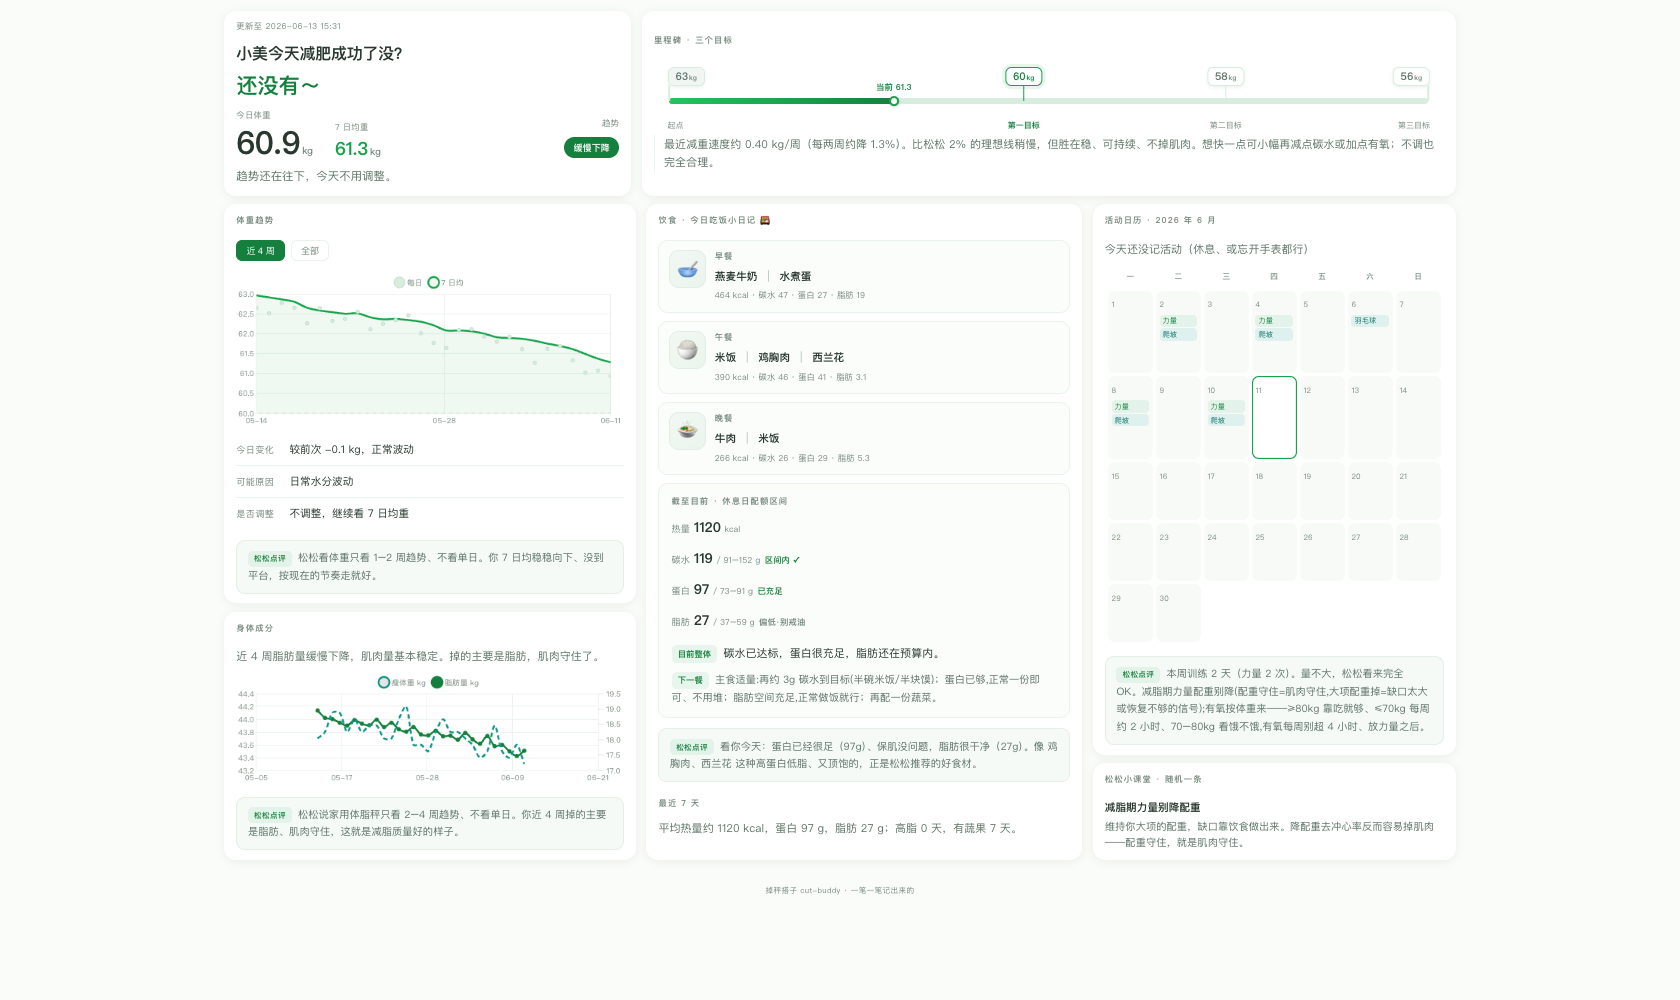
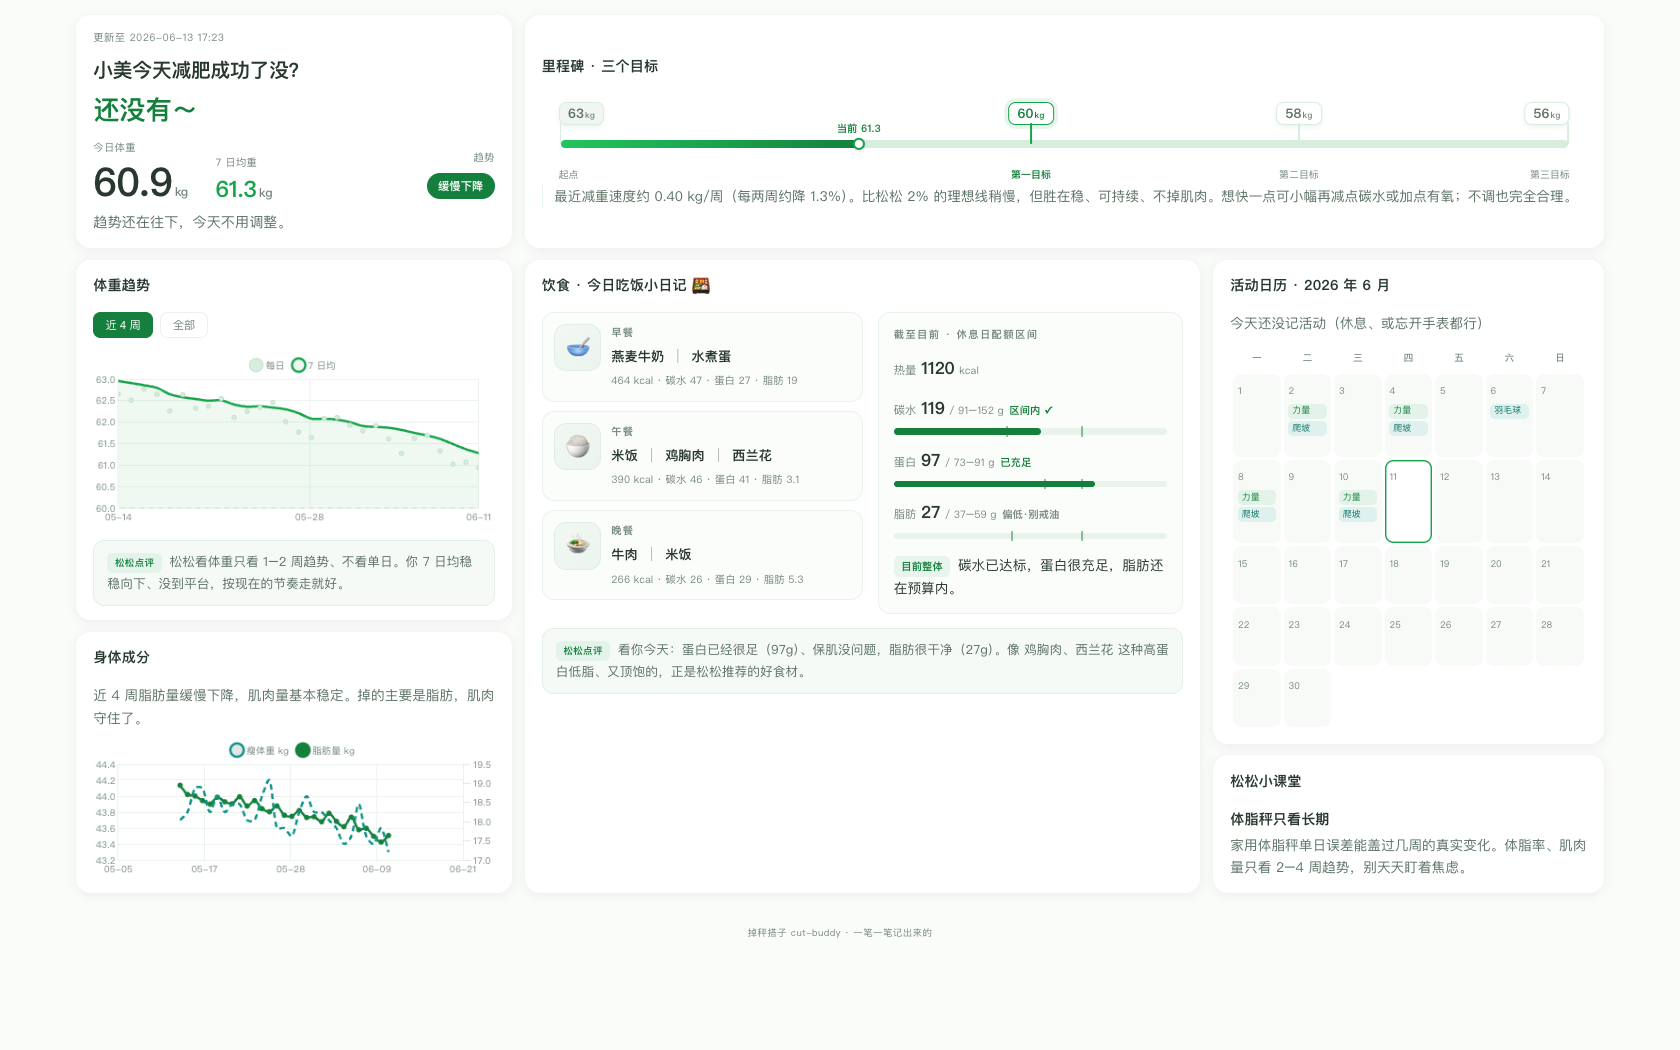
v2.3: 一页看板再打磨(字号放大/碳蛋脂进度条/英雄卡对齐/按菜显示dish/今天锚定改进/调料隐藏修复)

diff --git a/scripts/build_dashboard.py b/scripts/build_dashboard.py
@@ -154,8 +154,14 @@ def build_all():
     series = weight_series()
     mbd = meals_by_date(); wbd = workouts_by_date(); dbd = days_by_date()
     if not series: return {"empty": True}
-    L = series[-1][0]; latest_w = series[-1][1]
+    # "今天"取最近有任何记录(称重/饮食/运动)的那天,不只看称重——否则当天只记了吃/练、没称重,看板会卡在昨天
     daily = {d: w for (d, w, _, _) in series}
+    cand = [series[-1][0]]
+    if mbd: cand.append(max(pdate(d) for d in mbd))
+    if wbd: cand.append(max(pdate(d) for d in wbd))
+    L = max(cand)
+    weighed_today = L in daily
+    latest_w = daily.get(L, series[-1][1])   # 当天没称重就沿用最近一次体重(数字不空,但下方会标注)
     ma_now = ma7_at(series, L)
     ma_prev = ma7_at(series, L - datetime.timedelta(days=7))
     delta7 = round(ma_now - ma_prev, 2) if (ma_now and ma_prev) else None
@@ -297,8 +303,9 @@ def build_diet(profile, mbd, wbd, L, latest_w):
     bymeal = collections.OrderedDict()
     for m in todays: bymeal.setdefault(m["meal"], []).append(m)
     def is_condiment(nm):
-        if nm in ("食用油", "蚝油", "酱油", "生抽", "老抽", "盐", "糖", "沙拉酱", "蛋黄酱", "番茄酱"): return True
-        return len(nm) <= 3 and (nm.endswith("油") or nm.endswith("酱") or nm.endswith("盐"))
+        base = re.split(r'[（(]', nm)[0].strip()   # 去掉"(喷6下)""(各一勺)"这类备注再判断
+        if any(k in base for k in ("食用油", "调和油", "蚝油", "酱油", "生抽", "老抽", "沙拉酱", "蛋黄酱", "番茄酱")): return True
+        return len(base) <= 3 and (base.endswith("油") or base.endswith("酱") or base.endswith("盐"))
     photos_dir = os.path.join(DATA_DIR, "photos")
     def find_photo(mn):
         for ext in ("jpg", "jpeg", "png", "webp", "heic"):
@@ -307,7 +314,13 @@ def build_diet(profile, mbd, wbd, L, latest_w):
         return ""
     def mealcard(mn, items):
         sub = day_nutrition(items)
-        shown = [i["food"] for i in items if not is_condiment(i["food"])] or [i["food"] for i in items]
+        # 显示折叠:混合菜原料共用 dish 名→只显示一次菜名;无 dish 的单品显示本名;独立调料不单列
+        shown, seen = [], set()
+        for i in items:
+            label = i.get("dish") or i["food"]
+            if not i.get("dish") and is_condiment(i["food"]): continue
+            if label not in seen: seen.add(label); shown.append(label)
+        if not shown: shown = [i["food"] for i in items]
         return {"emoji": meal_emoji(mn), "meal": mn, "foods_list": shown, "empty": False,
                 "kcal": round(sub["kcal"]), "protein": f1(sub["protein"]), "fat": f1(sub["fat"]), "carb": f1(sub["carb"]),
                 "pre": ("练前" in mn or "练后" in mn), "photo": find_photo(mn)}
@@ -338,9 +351,9 @@ def build_diet(profile, mbd, wbd, L, latest_w):
         pt = tag_macro(tot["protein"], q["protein_low"], q["protein_high"], soft_high=True)
         ftg = tag_fat(tot["fat"])
         so_far = [
-            {"name": "碳水", "act": round(tot["carb"]), "rng": "%d–%d" % (q["carb_low"], q["carb_high"]), "tag": ct[0], "cls": ct[1]},
-            {"name": "蛋白", "act": round(tot["protein"]), "rng": "%d–%d" % (q["protein_low"], q["protein_high"]), "tag": pt[0], "cls": pt[1]},
-            {"name": "脂肪", "act": round(tot["fat"]), "rng": "%d–%d" % (fat_lo, fat_hi), "tag": ftg[0], "cls": ftg[1]},
+            {"name": "碳水", "act": round(tot["carb"]), "lo": q["carb_low"], "hi": q["carb_high"], "rng": "%d–%d" % (q["carb_low"], q["carb_high"]), "tag": ct[0], "cls": ct[1]},
+            {"name": "蛋白", "act": round(tot["protein"]), "lo": q["protein_low"], "hi": q["protein_high"], "rng": "%d–%d" % (q["protein_low"], q["protein_high"]), "tag": pt[0], "cls": pt[1]},
+            {"name": "脂肪", "act": round(tot["fat"]), "lo": fat_lo, "hi": fat_hi, "rng": "%d–%d" % (fat_lo, fat_hi), "tag": ftg[0], "cls": ftg[1]},
         ]
         if len(bymeal) <= 1:
             mn = list(bymeal.keys())[0] if bymeal else "这餐"
@@ -716,7 +729,7 @@ def build_supp(profile, series, mbd, wbd, L, rate, diet):
         p = build_praise(profile, series, mbd, wbd, L, rate, diet)
         return {"kind": "praise", "line": p["line"]}
     t = build_tip()
-    return {"kind": "tip", "title": "松松小课堂 · 随机一条", "tip_t": t["title"], "tip_b": t["body"]}
+    return {"kind": "tip", "title": "松松小课堂", "tip_t": t["title"], "tip_b": t["body"]}
 
 # ---------- 渲染 ----------
 def cal_html(cal):
@@ -755,7 +768,8 @@ def diet_html(di):  # 左侧:今日吃饭小日记(左图标 · 右食物列表)
     out = "<div class='diary'>"
     for c in di["cards"]:
         if c.get("empty"):
-            out += ("<div class='meal empty'><div class='mvis'><div class='mtile'>%s</div></div>"
+            # 空餐位:手机视图保留(提醒补记),一页分享视图收起(别让"暂未记录"占高度+显得没记全)
+            out += ("<div class='meal empty trim-wide'><div class='mvis'><div class='mtile'>%s</div></div>"
                     "<div class='mbody'><div class='mn'>%s</div><div class='mf-empty'>暂未记录</div></div></div>") % (
                     c["emoji"], esc(c["meal"]))
             continue
@@ -773,11 +787,19 @@ def diet_right_html(di):  # 截至目前(横向条) + 这一餐 + 下一餐
         return "<div class='note'>记一餐后，这里会显示截至目前的营养进度、这一餐判断和下一餐建议。</div>"
     items = "<div class='sf-item'><span class='sk'>热量</span><b>%d</b><i>kcal</i></div>" % di["kcal"]
     for m in di["so_far"]:
-        items += ("<div class='sf-item'><span class='sk'>%s</span><b>%d</b><i>/ %s g</i>"
-                  "<em class='%s'>%s</em></div>") % (m["name"], m["act"], esc(m["rng"]), m["cls"], esc(m["tag"]))
+        # 进度条:浅轨 + 目标区间[下限,上限]两根刻度 + 实际填充(按达标状态着色),一眼看出"到没到/超没超"
+        mx = max(m["hi"] * 1.45, m["act"] * 1.08, 1)
+        fill = min(100, m["act"] / mx * 100)
+        lop, hip = m["lo"] / mx * 100, m["hi"] / mx * 100
+        bar = ("<div class='sf-bar'><i class='sf-fill %s' style='width:%.1f%%'></i>"
+               "<i class='sf-tick' style='left:%.1f%%'></i><i class='sf-tick' style='left:%.1f%%'></i></div>") % (
+               m["cls"], fill, lop, hip)
+        items += ("<div class='sf-row'><div class='sf-item'><span class='sk'>%s</span><b>%d</b><i>/ %s g</i>"
+                  "<em class='%s'>%s</em></div>%s</div>") % (m["name"], m["act"], esc(m["rng"]), m["cls"], esc(m["tag"]), bar)
+    # "下一餐"建议是前瞻动作,一页分享视图收起(手机仍显示);"目前整体"判定保留
     return ("<div class='sf-h'>截至目前 · %s配额区间</div><div class='sf-strip'>%s</div>"
             "<div class='judge2'><span class='jt'>%s</span>%s</div>"
-            "<div class='advice2'><span class='jt'>下一餐</span>%s</div>") % (
+            "<div class='advice2 trim-wide'><span class='jt'>下一餐</span>%s</div>") % (
             di["day_kind"], items, esc(di["judge_label"]), esc(di["meal_judge"]), esc(di["next_meal"]))
 
 def supp_html(s):
@@ -791,8 +813,8 @@ def supp_html(s):
 def c_card(inner, title=None, cls="span2"):   # 统一卡片:可带标题
     h = ("<div class='mt'>%s</div>" % esc(title)) if title else ""
     return "<div class='card %s'>%s%s</div>" % (cls.strip(), h, inner)
-def c_coach(text):                            # 松松点评盒
-    return "<div class='coach'><span class='coach-tag'>松松点评</span>%s</div>" % esc(text)
+def c_coach(text, cls=""):                     # 松松点评盒(cls='trim-wide' → 一页视图收起、手机仍显示)
+    return "<div class='coach %s'><span class='coach-tag'>松松点评</span>%s</div>" % (cls, esc(text))
 def c_sub(title):                             # 小节小标题
     return "<div class='sub'>%s</div>" % esc(title)
 def c_stat(label, value, unit="", cls=""):    # 大数字块
@@ -813,16 +835,15 @@ def render(D):
     foot = "掉秤搭子 cut-buddy · 一笔一笔记出来的"   # 落款不带本地路径,截图分享出去也干净
     show_trend, show_pattern = di["show_trend"], di["show_pattern"]
 
-    # 饮食卡弹性内容预算:加餐多时,宽屏"一页"视图按优先级让位(只 CSS 隐藏,手机滚动视图仍保留全部)
-    # ≥4 张餐卡 → 撤"最近7天/30天"点评;≥5 张 → 连松松点评也撤
+    # 饮食卡弹性内容预算:精炼一页视图(只 CSS 隐藏,手机滚动视图仍保留全部)
+    # "最近7天/30天"长期趋势在宽屏一页里始终精炼掉(速度点评已覆盖趋势);≥5 张餐卡再撤松松点评
     extra_meals = max(0, (len(di["cards"]) if di.get("has_today") else 0) - 3)
-    trim1 = " trim-wide" if extra_meals >= 1 else ""
     trim2 = " trim-wide" if extra_meals >= 2 else ""
     # 饮食长期趋势:只留文字点评不画图(7天均值+30天模式,数据不足自动隐藏)
-    trend_block = ("<div class='dyn%s'>%s<div class='body-t'>%s</div></div>" % (
-        trim1, c_sub("最近 7 天"), esc(di["week_text"]))) if show_trend else ""
-    pattern_block = ("<div class='dyn%s'>%s<div class='body-t'>%s</div></div>" % (
-        trim1, c_sub("最近 30 天"), esc(di["pattern_text"]))) if show_pattern else ""
+    trend_block = ("<div class='dyn trim-wide'>%s<div class='body-t'>%s</div></div>" % (
+        c_sub("最近 7 天"), esc(di["week_text"]))) if show_trend else ""
+    pattern_block = ("<div class='dyn trim-wide'>%s<div class='body-t'>%s</div></div>" % (
+        c_sub("最近 30 天"), esc(di["pattern_text"]))) if show_pattern else ""
     body_chart = "<div class='cv sm'><canvas id='cBody' role='img' aria-label='身体成分趋势:瘦体重(虚线)与脂肪量(实线)双轴折线图'></canvas></div>" if bo["has"] else ""
 
     # —— 用统一组件拼装整页(Bento 层级:英雄卡=第一眼焦点) ——
@@ -834,7 +855,7 @@ def render(D):
     c_hero = ("<div class='card hero'><div class='upd'>更新至 %s</div><h1>%s</h1><div class='answer'>%s</div>"
               "<div class='stats'>%s</div><div class='one'>%s</div></div>") % (
         esc(D["updated"]), esc(mst["question"]), esc(mst["answer"]), stats, esc(t["one"]))
-    weight_kv = ("<div class='kv'><div class='row'><span class='k'>今日变化</span><span>%s</span></div>"
+    weight_kv = ("<div class='kv trim-wide'><div class='row'><span class='k'>今日变化</span><span>%s</span></div>"
                  "<div class='row'><span class='k'>可能原因</span><span>%s</span></div>"
                  "<div class='row'><span class='k'>是否调整</span><span>%s</span></div></div>") % (
                  esc(tr["chg"]), esc(tr_cause), esc(tr["adj"]))
@@ -843,9 +864,9 @@ def render(D):
     c_diet = c_card("<div class='diet-grid'><div class='diet-left'>%s</div><div class='diet-right'>%s</div></div><div class='dyn%s'>%s</div>%s%s" % (
         d_left, d_right, trim2, c_coach(d_coach), trend_block, pattern_block), "饮食 · 今日吃饭小日记 🍱")
     c_calendar = c_card("<div class='body-t' style='margin-bottom:12px'>%s</div>%s%s" % (
-        esc(ca["today_line"]), cal_html(ca), c_coach(ca["expl"])), "活动日历 · %d 年 %d 月" % (ca["year"], ca["month"]), cls="grow")
+        esc(ca["today_line"]), cal_html(ca), c_coach(ca["expl"], "trim-wide")), "活动日历 · %d 年 %d 月" % (ca["year"], ca["month"]), cls="grow")
     c_bodycomp = c_card("<div class='body-t'>%s</div>%s%s" % (
-        esc(bo["summary"]), body_chart, c_coach(bo["coach"])), "身体成分", cls="chartgrow")
+        esc(bo["summary"]), body_chart, c_coach(bo["coach"], "trim-wide")), "身体成分", cls="chartgrow")
     # 右下角位:周日=本周小结(每周复盘一次),平时=随机夸夸/小课堂
     if D.get("is_sunday"):
         c_supp = c_card("<div class='body-t'>%s</div>" % esc(recap_txt), "本周小结 · 周日复盘")
@@ -995,9 +1016,11 @@ h1,.stat .v,.hero .answer,.sf-item b,.node .flag{font-family:'Varela Round','Nun
 }
 @media(min-width:1360px){
  .wrap{max-width:1680px;padding-left:28px;padding-right:28px;}
- .b1{display:grid;grid-template-columns:4fr 8fr;gap:0 14px;align-items:stretch;}
+ /* b1 与 b3 共用同一三列栅格:英雄卡占第1列、里程碑跨第2-3列,上下列边界严丝合缝 */
+ .b1{display:grid;grid-template-columns:29fr 45fr 26fr;gap:0 14px;align-items:stretch;}
+ .b1>.hero{grid-column:1;} .b1>.card:nth-child(2){grid-column:2 / 4;}
  .b2{display:grid;grid-template-columns:6fr 6fr;gap:0 14px;align-items:stretch;}
- .b3{display:grid;grid-template-columns:34fr 36fr 30fr;gap:0 14px;align-items:stretch;}
+ .b3{display:grid;grid-template-columns:29fr 45fr 26fr;gap:0 14px;align-items:stretch;}
  .bcell{display:flex;flex-direction:column;min-width:0;}
  .bcell>.card:last-child{flex:1;}
  /* .grow 卡(日历)吃掉该列富余高度,表格行随之等比撑开填满——保证三列底边对齐,且无中间白洞 */
@@ -1013,40 +1036,43 @@ h1,.stat .v,.hero .answer,.sf-item b,.node .flag{font-family:'Varela Round','Nun
  .hero .stat.ma .v{font-size:24px;}
  .cv{height:205px;}
  /* 窄格里的饮食卡:内部改单列(双列会挤破) */
- .narrowdiet .diet-grid{grid-template-columns:1fr;gap:10px;}
- /* —— 紧凑密度:层级靠英雄区撑,其余全面收紧,目标整页 ~1100px 高、笔记本一屏透底 —— */
- .wrap{padding-top:14px;padding-bottom:22px;}
- .card{padding:13px 16px;margin-bottom:11px;}
- .mt{margin-bottom:10px;}
- .coach{margin-top:8px;padding:6px 10px;font-size:12px;line-height:1.55;}
- .speed{margin-top:8px;font-size:12.5px;line-height:1.55;}
- .one{font-size:14px;}
- .stats{margin-bottom:10px;gap:24px;}
+ /* 饮食列加宽后内部恢复左右并排(餐清单|配额表),卡子高度减半 */
+ .narrowdiet .diet-grid{grid-template-columns:1.05fr 1fr;gap:16px;}
+ /* —— 一页视图密度:内容精炼后字号回大,层级靠英雄区撑,目标笔记本一屏透底 —— */
+ .wrap{padding-top:16px;padding-bottom:24px;}
+ .card{padding:15px 18px;margin-bottom:12px;}
+ .mt{margin-bottom:11px;}  /* 字号见基础 .mt(在后,生效) */
+ .coach{margin-top:10px;padding:8px 12px;font-size:13.5px;line-height:1.6;}
+ .speed{margin-top:9px;font-size:13.5px;line-height:1.6;}
+ .one{font-size:15.5px;}
+ .stats{margin-bottom:11px;gap:26px;}
  .msbar{margin:50px 20px 2px;}
- .kv{margin-top:8px;} .kv .row{padding:5px 0;font-size:13px;}  /* 三行上下排,标签恒对齐 */
- .range{margin-bottom:4px;}
- .cv.sm{height:92px;}
+ .kv{margin-top:9px;} .kv .row{padding:5px 0;font-size:14px;}  /* 三行上下排,标签恒对齐 */
+ .kv .k{font-size:13px;}
+ .range{margin-bottom:5px;}
+ .cv.sm{height:96px;}
  /* 同列多图均衡伸缩:带 chartgrow 的卡平分该格富余高度,各自图表随卡长高(谁也不独吞留白) */
  .bcell>.card.chartgrow{display:flex;flex-direction:column;flex:1 1 auto;}
- .card.chartgrow .cv{flex:1 1 auto;height:auto;min-height:92px;}
- .card.chartgrow .cv:not(.sm){min-height:205px;}
- .body-t{font-size:13.5px;line-height:1.55;}
- .tip-t{font-size:14px;margin-bottom:3px;} .tip-b{font-size:13.5px;line-height:1.55;}
- .pz-big{font-size:15.5px;line-height:1.5;margin-top:6px;}
- .judge2{margin-top:9px;font-size:13.5px;line-height:1.55;} .advice2{margin-top:6px;font-size:12.5px;line-height:1.5;}
- .diet-grid{gap:14px;}
- .diary{gap:7px;}
- .meal{padding:6px 9px;gap:8px;}
- .mtile{width:32px;height:32px;font-size:16px;border-radius:8px;} .mthumb{width:34px;height:34px;border-radius:8px;}
- .mn{margin-bottom:1px;} .mfi{font-size:13px;} .mlist{line-height:1.45;} .mnut{margin-top:2px;}
- .macro{margin-top:8px;padding:7px 10px;} .mr{padding:2px 0;} .mv{font-size:14px;}
- .diet-right{padding:10px 13px;} .sf-strip{gap:7px;} .sf-item b{font-size:16px;}
- table.cal{border-spacing:2px;} table.cal td{height:31px;padding:2px 3px;border-radius:6px;}
- .dn{font-size:9px;} .chip{font-size:8.5px;padding:1px 4px;margin-top:2px;line-height:1.5;}  /* 活动块之间一点点呼吸感 */
- .note{padding:7px 10px;font-size:11px;line-height:1.5;}
- .foot{margin-top:8px;}
+ .card.chartgrow .cv{flex:1 1 auto;height:auto;min-height:84px;}
+ .card.chartgrow .cv:not(.sm){min-height:185px;}
+ .body-t{font-size:14.5px;line-height:1.62;}
+ .tip-t{font-size:15px;margin-bottom:4px;} .tip-b{font-size:14.5px;line-height:1.62;}
+ .pz-big{font-size:17px;line-height:1.55;margin-top:8px;}
+ .judge2{margin-top:10px;font-size:14.5px;line-height:1.62;} .advice2{margin-top:8px;font-size:13.5px;line-height:1.58;}
+ .diet-grid{gap:16px;}
+ .diary{gap:8px;}
+ .meal{padding:8px 11px;gap:10px;}
+ .mtile{width:36px;height:36px;font-size:18px;border-radius:9px;} .mthumb{width:38px;height:38px;border-radius:9px;}
+ .mn{margin-bottom:2px;font-size:11px;} .mfi{font-size:14.5px;} .mlist{line-height:1.5;} .mnut{margin-top:3px;font-size:11.5px;}
+ .macro{margin-top:10px;padding:9px 12px;} .mr{padding:3px 0;} .mv{font-size:15.5px;} .mk{font-size:13.5px;}
+ .ms{font-size:12.5px;}
+ .diet-right{padding:12px 14px;} .sf-strip{gap:9px;} .sf-item b{font-size:18px;} .sf-item .sk{font-size:12.5px;}
+ table.cal{border-spacing:3px;} table.cal td{height:32px;padding:3px 4px;border-radius:7px;}
+ .dn{font-size:10px;} .chip{font-size:9.5px;padding:1.5px 5px;margin-top:2px;line-height:1.5;}
+ .note{padding:9px 12px;font-size:12.5px;line-height:1.6;}
+ .foot{margin-top:9px;}
 }
-.mt{font-size:11px;font-weight:600;color:var(--t3);letter-spacing:.13em;text-transform:uppercase;margin:0 0 16px;}
+.mt{font-size:15px;font-weight:700;color:var(--ink);letter-spacing:.01em;margin:0 0 16px;}
 /* 今日状态 */
 .stats{display:flex;align-items:flex-end;gap:30px;margin-bottom:14px;}
 .stat .l{font-size:11px;color:var(--t3);letter-spacing:.03em;margin-bottom:8px;}
@@ -1069,7 +1095,10 @@ h1,.stat .v,.hero .answer,.sf-item b,.node .flag{font-family:'Varela Round','Nun
 .range button.on{background:var(--accent-d);color:#fff;border-color:var(--accent-d);}
 .sub{font-size:11px;color:var(--t3);font-weight:600;letter-spacing:.13em;text-transform:uppercase;margin:20px 0 10px;}
 /* 饮食日记 · 2×2 方格 */
-.diet-grid{display:grid;grid-template-columns:1fr 1fr;gap:24px;align-items:center;}
+.diet-grid{display:grid;grid-template-columns:1fr 1fr;gap:24px;align-items:stretch;}
+/* 右侧"截至目前"拉伸填满列高,营养行均匀分布,底边与左侧餐卡齐平(不再上下留白) */
+.diet-right{display:flex;flex-direction:column;}
+.diet-right .sf-strip{flex:1;justify-content:space-between;}
 @media(max-width:600px){.diet-grid{grid-template-columns:1fr;gap:16px;}}
 .diary{display:flex;flex-direction:column;gap:10px;}
 .meal{display:flex;gap:11px;align-items:flex-start;padding:12px;border:1px solid var(--line);border-radius:13px;background:#FBFDFB;}
@@ -1105,8 +1134,14 @@ h1,.stat .v,.hero .answer,.sf-item b,.node .flag{font-family:'Varela Round','Nun
 /* 饮食 · 截至目前(横向铺平) */
 .diet-right{padding:14px 16px;background:#FBFDFB;border:1px solid var(--line);border-radius:13px;}
 .sf-h{font-size:11px;color:var(--t3);font-weight:600;letter-spacing:.13em;text-transform:uppercase;margin:0 0 12px;}
-.sf-strip{display:flex;flex-direction:column;gap:11px;}
+.sf-strip{display:flex;flex-direction:column;gap:13px;}
+.sf-row{display:flex;flex-direction:column;gap:6px;}
 .sf-item{display:flex;align-items:baseline;gap:5px;}
+/* 碳蛋脂进度条:浅轨 + 目标区间两刻度 + 实际填充(按达标色) */
+.sf-bar{position:relative;height:7px;background:#EAF2EC;border-radius:6px;}
+.sf-fill{position:absolute;left:0;top:0;height:100%;border-radius:6px;background:var(--pos);transition:width .3s ease-out;}
+.sf-fill.warn{background:var(--warn);} .sf-fill.mut{background:var(--sand);}
+.sf-tick{position:absolute;top:-2px;width:2px;height:11px;background:var(--accent-d);border-radius:1px;transform:translateX(-1px);opacity:.5;}
 .sf-item .sk{font-size:12px;color:var(--t3);}
 .sf-item b{font-size:18px;font-weight:700;letter-spacing:-.01em;}
 .sf-item i{font-size:11px;color:var(--t3);font-style:normal;}

diff --git a/scripts/tracker.py b/scripts/tracker.py
@@ -34,7 +34,7 @@ def pdate(s):
 SCHEMA = {
     "weight.csv":  ["date", "weight_kg", "body_fat_pct", "lean_mass_kg", "note"],
     "days.csv":    ["date", "sleep_h", "period", "bloat", "bowel", "high_salt", "note"],
-    "meals.csv":   ["date", "meal", "food", "grams", "kcal", "protein", "fat", "carb", "veg_g", "fructose_g", "source", "note"],
+    "meals.csv":   ["date", "meal", "food", "dish", "grams", "kcal", "protein", "fat", "carb", "veg_g", "fructose_g", "source", "note"],
     "workouts.csv":["date", "type", "duration_min", "intensity", "is_strength", "is_cardio", "is_ball", "is_rest", "cardio_min", "load", "performance", "fatigue", "energy_kcal", "distance_km", "raw_type", "note"],
     "foods.csv":   ["name", "brand", "per100_kcal", "per100_protein", "per100_fat", "per100_carb", "per100_fructose", "unit_g", "source", "added"],
 }
@@ -218,6 +218,7 @@ def cmd_log(payload):
             msg.append("⚠️未能计算[%s](缺营养表/不在食物库)" % it.get("food", "?")); continue
         grams, kcal, pro, fat, carb, fru, source, save = r
         append_csv("meals.csv", {"date": date, "meal": it.get("meal", ""), "food": it.get("food", ""),
+                   "dish": it.get("dish", ""),  # 显示用菜名(混合菜原料共用一个 dish,看板折叠成一行)
                    "grams": grams, "kcal": kcal, "protein": pro, "fat": fat, "carb": carb,
                    "veg_g": grams if it.get("veg") else "", "fructose_g": fru,
                    "source": source, "note": it.get("note", "")})

diff --git a/CHANGELOG.md b/CHANGELOG.md
@@ -2,6 +2,23 @@
 
 > 格式：版本号 · 日期 · 变更内容。最新在最上面。
 
+## v2.3 · 2026-06-13 · 一页看板再打磨:字号变大 + 进度条 + 按菜显示
+
+围绕"字太小、内容杂"做了一轮深度打磨,核心是**先精炼内容、再放大字号**(内容矮了,一屏自适应缩放就不用把字压小):
+
+**布局/可读性**
+- **饮食列加宽、内部"餐清单|配额表"恢复左右并排**(原来被挤成上下堆叠,把页面撑高 240px)。这一改让整页自然高从 1291→1050,**一屏自适应缩放回到 1.0、字号全尺寸显示**(正文 11.8→14.5px effective)。
+- **碳蛋脂进度条**:每个宏量数据下方加一根条——浅轨 + 目标区间[下限,上限]两道刻度 + 实际填充按达标状态着色(绿=区间内/琥珀=超上限·偏低),一眼看出到没到、超没超;右侧"截至目前"拉伸填满列高,底边与左侧餐卡齐平。
+- **英雄卡与下方三列对齐**:b1 与 b3 共用同一三列栅格(英雄占第1列、里程碑跨2-3列),上下列边界严丝合缝。
+- **分区标题调大**:里程碑/体重趋势/饮食/活动日历/身体成分/松松小课堂 等标题 11.5→15px、加粗、深墨绿(原浅灰小字);顺带修了"紧凑样式块写在基础规则前、被同优先级覆盖"导致字号改不动的隐藏 bug。
+- **一页视图精炼**(仅宽屏 CSS 隐藏,手机滚动视图保留全部):最近7天/30天饮食趋势、日历/身体成分的次要点评、单日波动三行、下一餐建议、没记的空餐位。
+- 松松小课堂副标题去掉"· 随机一条"。
+
+**记录/引擎**
+- **混合菜"按菜显示、按原料计算"**(dish 字段):五花肉石锅拌饭、煎鸡蛋(蛋+油)、清炒生菜(菜+油)等显示成**一道菜名**,底层照样拆原料精算——省地方、看得懂、计算不打折。meals.csv 加 `dish` 列。
+- **"今天"锚定改进**:看板"今天"取最近有任何记录(称重/饮食/运动)的那天,不再只认称重——白天记了饭/练、还没称重也会刷新到当天(原来会卡在昨天)。
+- **修复**:带备注的调料(如"食用油(喷6下)""蚝油+生抽(各一勺)")之前没被识别隐藏,现在去掉括号备注再判断,正确隐藏。
+
 ## v2.2 · 2026-06-13 · 修复:只给碳蛋脂的食物热量被记成 0
 
 - **Bug**:记录时若某食物只提供碳水/蛋白/脂肪、没给 kcal 或 kj(常见于按营养率估算的混合菜原料),引擎把热量存成 0,导致全天热量被严重低估。

diff --git a/SKILL.md b/SKILL.md
@@ -51,7 +51,8 @@ description: >-
 
 1. **解析**用户的话为 payload(schema 见下)。日期默认今天;"昨天"等换算。
 2. **只记已发生、不记计划**:用户说"等会要去练X/打算吃Y"——**别记**(运动尤其常临时改),只陪聊;等他说"练完了/吃完了"再记。
-3. 饮食营养**营养表优先**:用户给了每100g/每份营养(含千焦)就放 `per100`;只报名字+数量没给营养 → 让脚本查食物库;查不到则按 `references/松松食物营养率.md` 粗估、`source` 标 `"估算"`;混合菜(如"土豆烧排骨")**拆成原料**分条记。
+3. 饮食营养**营养表优先**:用户给了每100g/每份营养(含千焦)就放 `per100`;只报名字+数量没给营养 → 让脚本查食物库;查不到则按 `references/松松食物营养率.md` 粗估、`source` 标 `"估算"`;混合菜(如"土豆烧排骨"/"五花肉石锅拌饭")**拆成原料**分条记。
+   - **按菜显示、按原料计算**:同一道混合菜的各原料,给它们填同一个 `dish` 显示名(如三条原料都 `"dish":"五花肉石锅拌饭"`),看板会折叠成一行菜名显示、底层照样逐原料精算。炒菜油也并进所属菜的 dish(如 `"煎鸡蛋"`=蛋+油),既不丢脂肪计算、显示又干净。单品(冷面/一个苹果)不用填 dish。
    **估算铁律:粗估前必须实际打开营养率表取比率,并在回复里写明所用比率与假设(如"生虾蛋白率15%、带壳出肉率50%"),禁止凭通用记忆写 per100。** 带壳海鲜出肉率取 45–55% 中值。(教训:曾凭记忆把生虾蛋白率写成 19%,松松口径是 15%,全天蛋白虚高 20g,被用户发现。)
 4. 写 payload 到临时文件,运行 `python3 scripts/tracker.py log --file /tmp/cb.json`(自动存档、算营养、把**带营养表的新食物存进个人食物库**、刷新看板,回传当天 `today`)。
 5. **食物入库要告知用户**:当用户给了营养、食物被存进个人常吃库时,回一句"已记到你的常吃食物库,下次直接报名字就行~"。
@@ -65,7 +66,7 @@ description: >-
  "meals":[{"meal":"早餐","food":"鸡腿肉","grams":120,"per100":{"kcal":145,"protein":19.5,"fat":7,"carb":0},"source":"估算"}],
  "workouts":[{"type":"力量","duration_min":50,"intensity":"中","is_strength":true,"cardio_min":30,"note":"练胸+爬坡"}]}
 ```
-食物可用 `grams` 或 `count`+`unit_g`;`per100` 给每100g(`kj` 或 `kcal`);蔬菜加 `veg:true`;果糖 `per100.fructose`。运动 `is_strength/is_cardio/is_ball/is_rest` 标类型。
+食物可用 `grams` 或 `count`+`unit_g`;`per100` 给每100g(`kj` 或 `kcal`,只给碳蛋脂不给热量时引擎按 碳×4+蛋×4+脂×9 反算);混合菜原料共用 `dish` 显示名;蔬菜加 `veg:true`;果糖 `per100.fructose`。运动 `is_strength/is_cardio/is_ball/is_rest` 标类型。
 
 ## 二、回复结构(适度陪跑,不啰嗦)
 